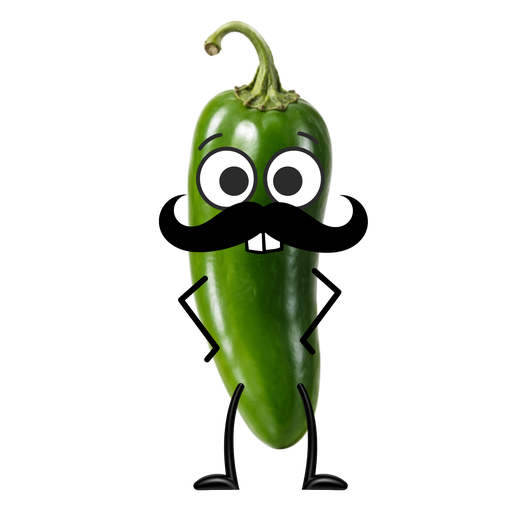
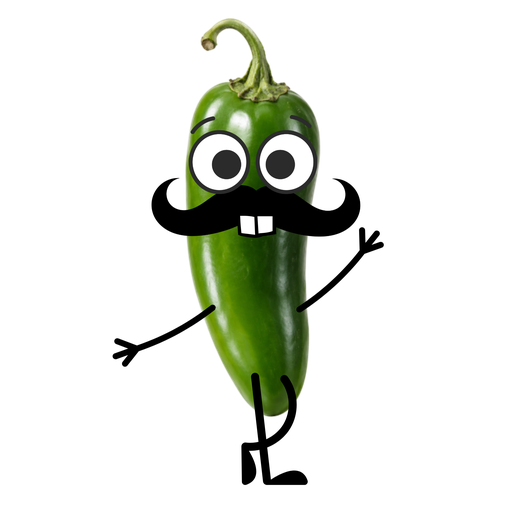
Señor Jalapresto performs at his own piano, and his new still ships everywhere
Founder art 2026-11-06, built per claude/avatar-animation-rules.md. His
layered scene (base healed under the arms with direction-aware fills,
arms pivoting at their drawn attachment points on his body, music
extracted from the composite and animated as the approved traveling
wave) ships as assets/art/piano/jala_* with its own JalaprestoPiano
widget, sound-gated exactly like Ms. Straw-ccato's. His market avatar
still updates to the new pose. QC run: transparency audit (the leg-loop
and bench gaps are legitimate see-through; eyes and teeth solid), heal
inspection at pixel zoom, joint attachment at rest and both motion
extremes, music anchored motionless at the lid.

Claude-Session: https://claude.ai/code/session_01QFxDJg41b2sgBigVhhRjMa

Changed region(s): [[0.2188, 0.0312, 0.75, 0.9688]]

diff --git a/app/lib/widgets/jalapresto_piano.dart b/app/lib/widgets/jalapresto_piano.dart
@@ -1,0 +1,115 @@
+import 'dart:math' as math;
+
+import 'package:flutter/material.dart';
+
+/// Señor Jalapresto at his grape-footed piano (founder art, 2026-11-06).
+///
+/// Same layered cutout recipe as Ms. Straw-ccato's scene, per
+/// claude/avatar-animation-rules.md: the armless healed scene is the base,
+/// each arm rotates about its own drawn attachment point on his body (so
+/// it can never detach), and the music is the approved traveling-wave
+/// render shipped as a transparent animated WebP.
+///
+/// [playing] eases the whole scene between still and playing over ~0.8 s —
+/// arms and music wake together, driven by the practice screen's sound
+/// gate.
+class JalaprestoPiano extends StatefulWidget {
+  const JalaprestoPiano({super.key, required this.playing, this.height = 96});
+
+  final bool playing;
+  final double height;
+
+  @override
+  State<JalaprestoPiano> createState() => _JalaprestoPianoState();
+}
+
+class _JalaprestoPianoState extends State<JalaprestoPiano>
+    with TickerProviderStateMixin {
+  // Scene canvas the layers were exported on, and the measured pivots
+  // (fractions of that canvas — the arms' drawn attachment points).
+  static const _w = 1200.0, _h = 1398.0;
+  static const _pivotUpper = Offset(0.27518 * _w, 0.52569 * _h);
+  static const _pivotLower = Offset(0.28029 * _w, 0.55890 * _h);
+  static const _musicRect =
+      Rect.fromLTWH(0.60584 * _w, 0.0, 0.39416 * _w, 0.34148 * _h);
+
+  late final AnimationController _beat = AnimationController(
+      vsync: this, duration: const Duration(milliseconds: 1000))
+    ..repeat();
+  late final AnimationController _wake = AnimationController(
+      vsync: this,
+      duration: const Duration(milliseconds: 800),
+      value: widget.playing ? 1 : 0);
+
+  @override
+  void didUpdateWidget(covariant JalaprestoPiano old) {
+    super.didUpdateWidget(old);
+    if (widget.playing && !old.playing) _wake.forward();
+    if (!widget.playing && old.playing) _wake.reverse();
+  }
+
+  @override
+  void dispose() {
+    _beat.dispose();
+    _wake.dispose();
+    super.dispose();
+  }
+
+  @override
+  Widget build(BuildContext context) {
+    return SizedBox(
+      height: widget.height,
+      child: AspectRatio(
+        aspectRatio: _w / _h,
+        child: AnimatedBuilder(
+          animation: Listenable.merge([_beat, _wake]),
+          builder: (context, _) {
+            final e = Curves.easeInOut.transform(_wake.value);
+            final t = _beat.value;
+            final upper =
+                e * 6.0 * math.sin(2 * math.pi * (2 * t + 0.5)) * math.pi / 180;
+            final lower =
+                e * 6.0 * math.sin(2 * math.pi * (2 * t)) * math.pi / 180;
+            return LayoutBuilder(builder: (context, c) {
+              final s = c.maxWidth / _w;
+              Widget arm(String name, Offset pivot, double ang) =>
+                  Positioned.fill(
+                    child: Transform(
+                      transform: Matrix4.identity()
+                        ..translate(pivot.dx * s, pivot.dy * s)
+                        ..rotateZ(ang)
+                        ..translate(-pivot.dx * s, -pivot.dy * s),
+                      child: Image.asset('assets/art/piano/$name',
+                          fit: BoxFit.fill),
+                    ),
+                  );
+              return Stack(children: [
+                Positioned.fill(
+                  child: Image.asset('assets/art/piano/jala_piano_base.png',
+                      fit: BoxFit.fill),
+                ),
+                // The music pours out of the lid only while there's sound.
+                if (e > 0.01)
+                  Positioned(
+                    left: _musicRect.left * s,
+                    top: _musicRect.top * s,
+                    width: _musicRect.width * s,
+                    height: _musicRect.height * s,
+                    child: Opacity(
+                      opacity: e,
+                      child: Image.asset(
+                          'assets/art/piano/jala_piano_music.webp',
+                          fit: BoxFit.fill,
+                          gaplessPlayback: true),
+                    ),
+                  ),
+                arm('jala_piano_arm_lower.png', _pivotLower, lower),
+                arm('jala_piano_arm_upper.png', _pivotUpper, upper),
+              ]);
+            });
+          },
+        ),
+      ),
+    );
+  }
+}

diff --git a/app/lib/widgets/performing_avatar.dart b/app/lib/widgets/performing_avatar.dart
@@ -6,6 +6,7 @@ import 'package:flutter_riverpod/flutter_riverpod.dart';
 import '../state/app_state.dart';
 import '../state/wardrobe.dart';
 import 'dressed_avatar.dart';
+import 'jalapresto_piano.dart';
 import 'strawccato_piano.dart';
 
 /// Instrument props the avatar can play (placeholder art — each swaps to a
@@ -94,6 +95,10 @@ class _PerformingAvatarState extends ConsumerState<PerformingAvatar>
     // still while the room is quiet, playing while sound is detected.
     if (wornKey == 'strawberry') {
       return StrawccatoPiano(playing: widget.playing, height: widget.size * 1.35);
+    }
+    // Señor Jalapresto gets his own piano scene too (founder art, 2026-11-06).
+    if (wornKey == 'jalapeno') {
+      return JalaprestoPiano(playing: widget.playing, height: widget.size * 1.35);
     }
     final instruments = (active?['instruments'] as List?)?.cast<String>();
     final prop = _propFor(widget.instrument ??
